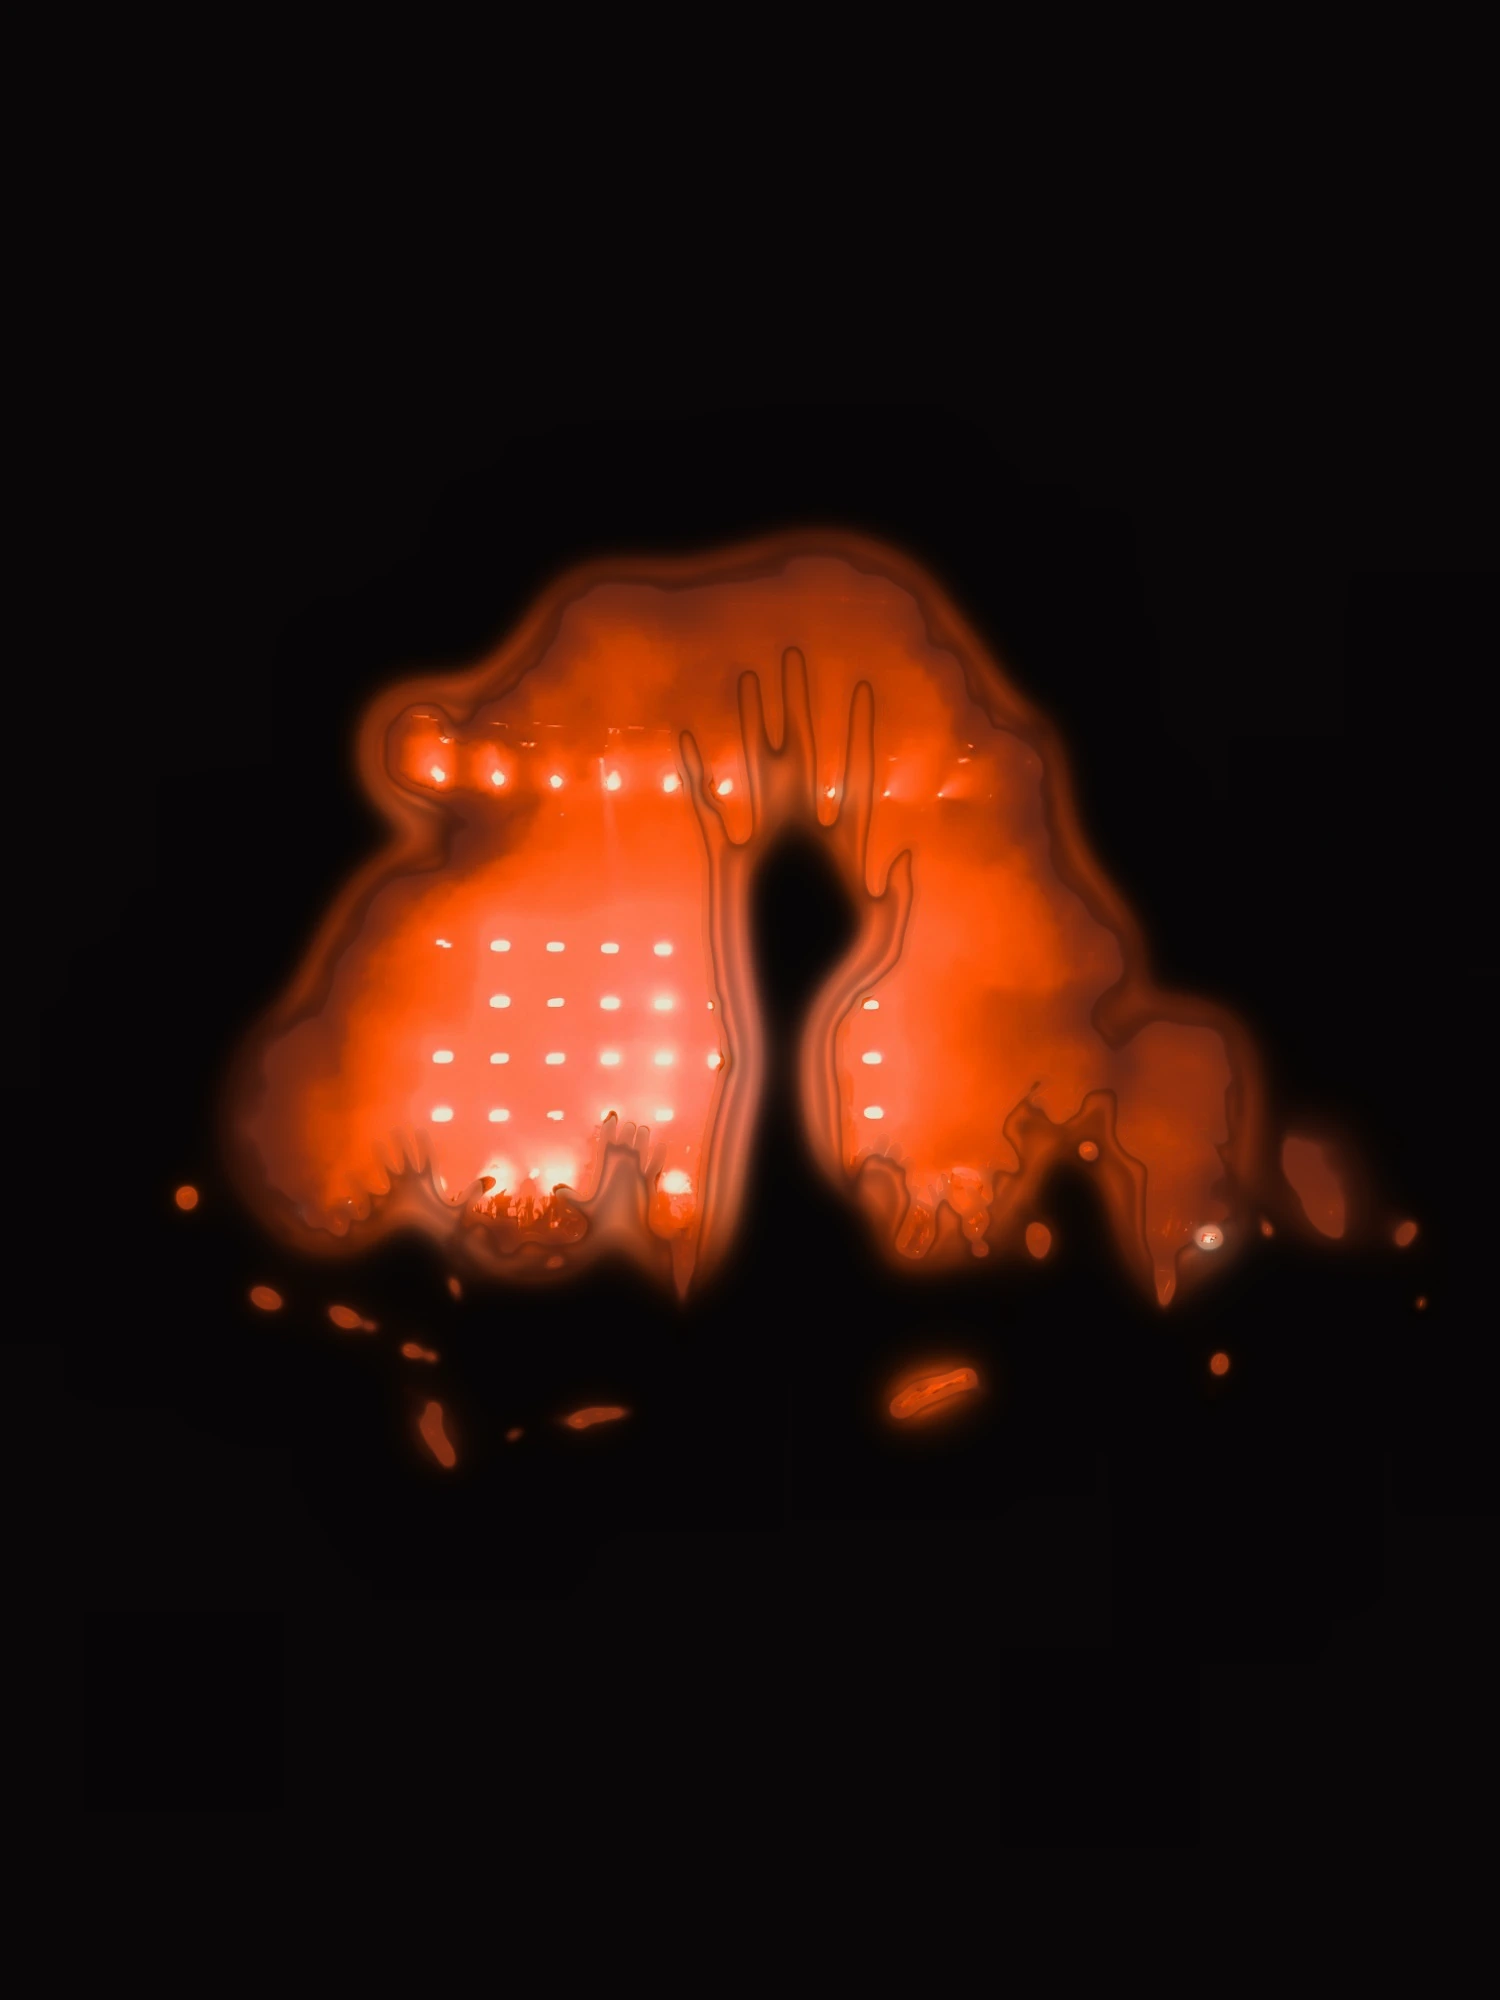
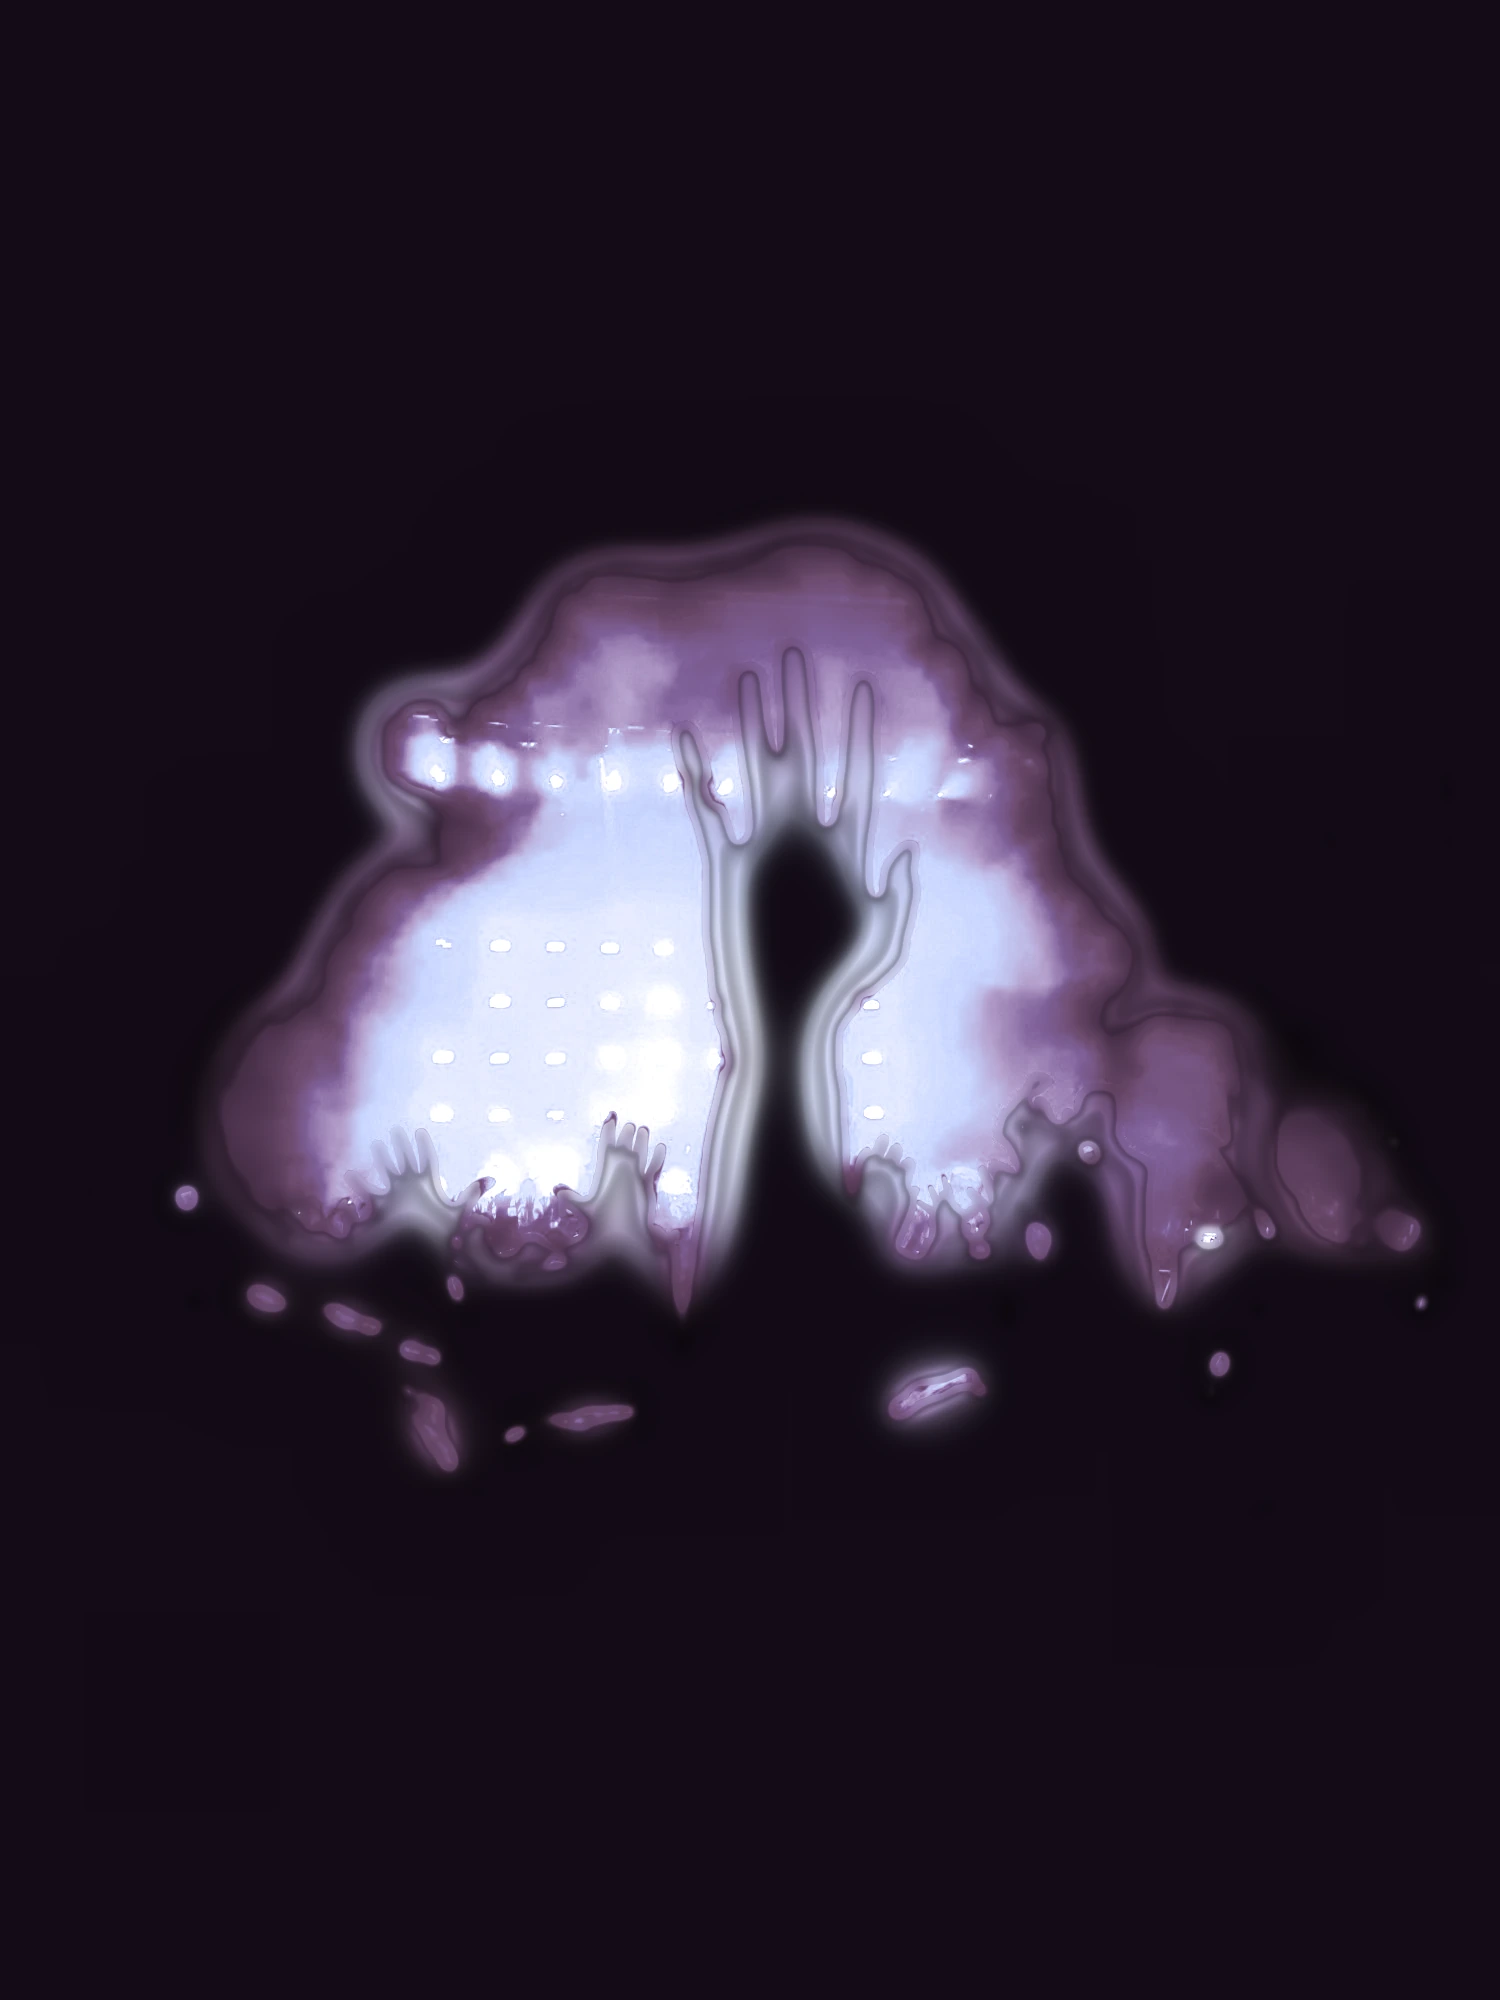
Home: new talk photo in the middle, new hero line, third photo in Tap In colours, footer notice removed
- Middle photo is now the supplied talk-hall photo (full quality, as shot).
- The Find / Get / Tap in line moves onto the first photo as one headline:
  Find an event, get your pass, just tap in. (tap in highlighted); No paper removed.
- The third photo is rebuilt from the original at full resolution in the
  Tap In palette, instead of orange.
- The work-in-progress / demo mode / no real payment notice is removed from the
  home page footer.

Claude-Session: https://claude.ai/code/session_01SiTP2wn1HdnciTk7XSJexB

Changed region(s): [[0.092, 0.248, 0.9507, 0.744]]

diff --git a/worker/public/index.html b/worker/public/index.html
@@ -26,7 +26,7 @@
 <link rel="stylesheet" href="/css/tapin.css?v=8">
 <link rel="stylesheet" href="/site.css?v=8">
 <link rel="stylesheet" href="/css/fx.css?v=8">
-<link rel="stylesheet" href="/home.css?v=10">
+<link rel="stylesheet" href="/home.css?v=13">
 <script src="/js/theme.js?v=9"></script>
 <script src="/js/site.js?v=8" defer></script>
 <script src="/js/fx.js?v=10" defer></script>
@@ -72,7 +72,7 @@
     <div class="lp-stage"><img class="bg" src="/img/hands-bg.webp?v=9" width="2000" height="1235" alt="" fetchpriority="high" decoding="async"><img class="fg" src="/img/hands-fg.webp?v=9" width="2000" height="1235" alt="A crowd at a night show with hands raised towards the stage lights" fetchpriority="high" decoding="async"></div>
     <i class="lp-beam b1"></i><i class="lp-beam b2"></i><i class="lp-beam b3"></i><i class="lp-pulse"></i>
     <div class="lp-copy wrap hero-copy">
-      <h1>No paper. <span class="hl">Just tap in.</span></h1>
+      <h1 class="steps"><span class="ln">Find an event,</span> <span class="ln">get your pass,</span> <span class="ln">just <span class="hl">tap in.</span></span></h1>
       <div class="row cta">
         <a class="btn primary glow" href="/play/">Find an event</a>
         <a class="btn ghost" href="/app/">Open the app</a>
@@ -80,22 +80,14 @@
     </div>
   </section>
 
-  <section class="lp band" data-live style="--pos:50% 62%" aria-label="Find, get, tap in">
-    <div class="lp-stage"><img class="bg" src="/img/beams-bg.webp?v=9" width="2000" height="1333" alt="" loading="lazy" decoding="async"><img class="fg" src="/img/beams-fg.webp?v=9" width="2000" height="1333" alt="A crowd facing a DJ on stage, with beams of light crossing above them" loading="lazy" decoding="async"></div>
-    <i class="lp-beam b1"></i><i class="lp-beam b2"></i><i class="lp-beam b3"></i><i class="lp-pulse"></i>
-    <div class="lp-copy wrap">
-      <ol class="words">
-        <li><b>Find</b><span>an event</span></li>
-        <li><b>Get</b><span>your pass</span></li>
-        <li><b>Tap in</b><span>and walk in</span></li>
-      </ol>
-    </div>
+  <section class="lp band" style="--pos:50% 17%;--pos-m:50% 20%">
+    <div class="lp-stage"><img class="bg" src="/img/talk.webp?v=1" width="1333" height="2000" alt="An audience watching a talk in a dark hall, a red screen above them reading Imagine Everything" loading="lazy" decoding="async"></div>
   </section>
 
   <section class="wrap sec rv" id="guests">
     <div class="split">
       <div class="lp tall" data-live style="--pos:50% 60%">
-        <div class="lp-stage"><img class="bg" src="/img/hand-up-bg.webp?v=9" width="1500" height="2000" alt="" loading="lazy" decoding="async"><img class="fg" src="/img/hand-up-fg.webp?v=9" width="1500" height="2000" alt="One raised hand in a crowd in front of glowing stage lights" loading="lazy" decoding="async"></div>
+        <div class="lp-stage"><img class="bg" src="/img/hand-up-bg.webp?v=10" width="1500" height="2000" alt="" loading="lazy" decoding="async"><img class="fg" src="/img/hand-up-fg.webp?v=10" width="1500" height="2000" alt="One raised hand in a crowd in front of glowing stage lights" loading="lazy" decoding="async"></div>
     <i class="lp-beam b1"></i><i class="lp-beam b2"></i><i class="lp-beam b3"></i><i class="lp-pulse"></i>
       </div>
       <ul class="lines">
@@ -116,7 +108,7 @@
 
   <footer class="wrap muted sitefoot">
     <nav class="row" aria-label="Footer"><a href="/play/">Find an event</a><a href="/organisers/">For organisers</a><a href="/business/">Tap In for Business</a><a href="/app/">Open the app</a><a href="/privacy/">Privacy</a><a href="/terms/">Terms</a><a href="mailto:hello@tap-in.world">hello@tap-in.world</a></nav>
-    <p>Tap In is a work in progress. Sign-in codes are shown on screen in demo mode until a text or email provider is connected, and ticket checkout is a demo: no real payment is taken yet. <a href="/?intro=1">Replay intro</a></p>
+    <p><a href="/?intro=1">Replay intro</a></p>
   </footer>
 </main>
 <noscript><style>.rv{opacity:1!important;transform:none!important}</style></noscript>

diff --git a/worker/public/home.css b/worker/public/home.css
@@ -345,6 +345,8 @@ body.entered .photo-hero{animation:push 1.7s cubic-bezier(.2,.7,.2,1) both}
 .lp-copy{position:absolute;left:0;right:0;bottom:0;z-index:2;padding-block:clamp(26px,6vh,72px);display:grid;gap:clamp(14px,2.6vh,26px)}
 .lp-copy h1,.lp-copy h2{margin:0;color:#fff;text-wrap:balance;text-shadow:0 2px 30px rgba(13,7,15,.55)}
 .lp-copy h1{font-size:clamp(40px,7.4vw,104px);line-height:.96}
+.lp-copy h1.steps{display:block;font-size:clamp(30px,5.6vw,84px);line-height:1.04}
+.lp-copy h1.steps .ln{display:block;white-space:nowrap}
 .lp-copy .hl{background:linear-gradient(90deg,#e0d4f5,#9db8ff);-webkit-background-clip:text;background-clip:text;color:transparent;-webkit-text-fill-color:transparent;text-shadow:none}
 .lp-copy .lede{color:#e4d9ee;font-size:clamp(17px,2.2vw,22px);margin:0}
 .lp-copy .btn.ghost{color:#fff;border-color:rgba(255,255,255,.42);background:rgba(18,9,18,.36);backdrop-filter:blur(8px);-webkit-backdrop-filter:blur(8px)}

diff --git a/worker/public/enter/index.html b/worker/public/enter/index.html
@@ -10,7 +10,7 @@
 <link rel="stylesheet" href="/css/tapin.css?v=9">
 <link rel="stylesheet" href="/site.css?v=9">
 <link rel="stylesheet" href="/css/fx.css?v=10">
-<link rel="stylesheet" href="/home.css?v=10">
+<link rel="stylesheet" href="/home.css?v=13">
 <link rel="stylesheet" href="/css/appshell.css?v=4">
 <script src="/js/theme.js?v=3"></script>
 <script src="/js/enter.js?v=2"></script>

diff --git a/worker/public/organisers/index.html b/worker/public/organisers/index.html
@@ -26,7 +26,7 @@
 <link rel="stylesheet" href="/css/tapin.css?v=8">
 <link rel="stylesheet" href="/site.css?v=8">
 <link rel="stylesheet" href="/css/fx.css?v=8">
-<link rel="stylesheet" href="/home.css?v=10">
+<link rel="stylesheet" href="/home.css?v=13">
 <script src="/js/theme.js?v=9"></script>
 <script src="/js/site.js?v=8" defer></script>
 <script src="/js/fx.js?v=10" defer></script>
